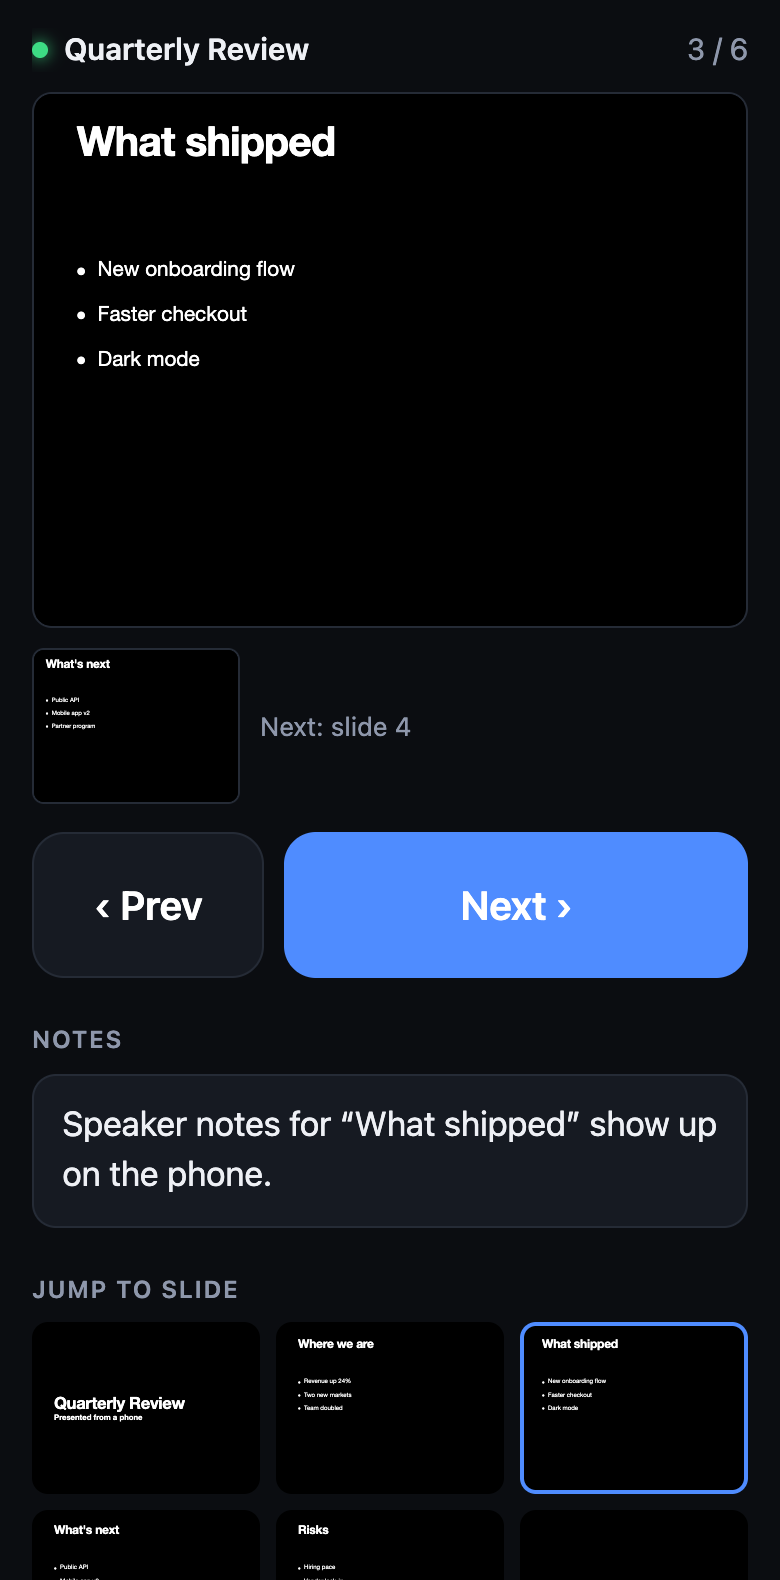
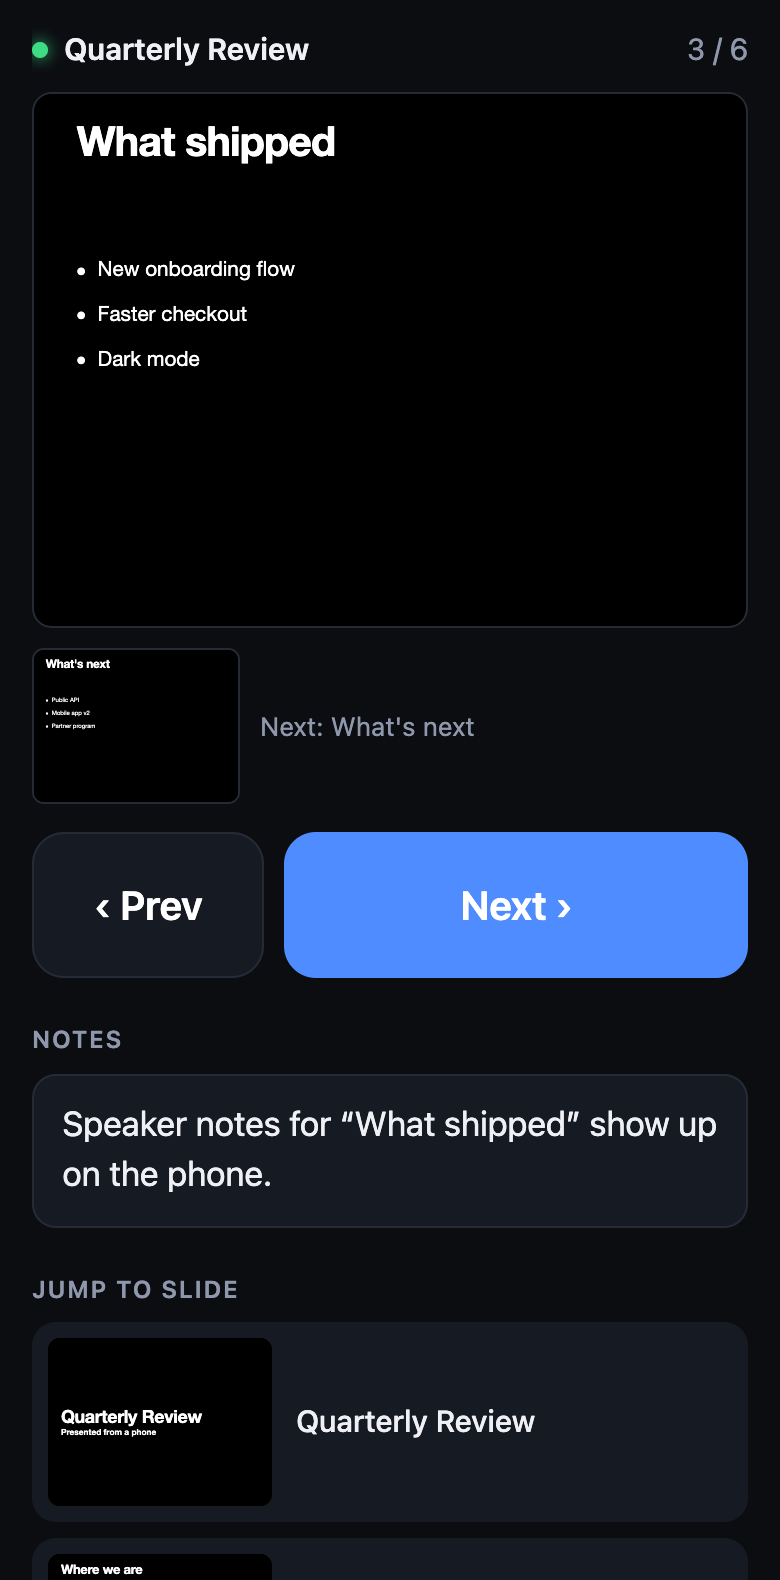
Phone: list slides with their titles; drop the fullscreen slide counter
Titles come from the title placeholder, or the topmost 24pt+ text box
for decks without placeholders. The next-slide label uses the title too.

Claude-Session: https://claude.ai/code/session_018dMkhcnYkUqkn8r54SYi35

Changed region(s): [[0.0308, 0.8373, 0.9846, 1.0], [0.4308, 0.4342, 0.6154, 0.4652]]

diff --git a/docs/js/deck.js b/docs/js/deck.js
@@ -1,5 +1,5 @@
 // Shared by the presenter and the phone remote: parse a .pptx in the browser,
-// render slides into any container, and pull out speaker notes.
+// render slides into any container, and pull out slide titles and speaker notes.
 import { PptxViewer, parseZip, buildPresentation, RECOMMENDED_ZIP_LIMITS } from '../vendor/pptx-renderer.js';
 
 export async function loadDeck(buffer) {
@@ -17,12 +17,13 @@ export async function loadDeck(buffer) {
 
   // Hidden slides are skipped in the show, as in PowerPoint.
   const order = pres.slides.map((s, i) => (s.hidden ? -1 : i)).filter((i) => i >= 0);
-  const notes = await readNotes(buffer, order.map((i) => pres.slides[i]));
+  const { titles, notes } = await readText(buffer, order.map((i) => pres.slides[i]));
 
   return {
     count: order.length,
     width: viewer.slideWidth,
     height: viewer.slideHeight,
+    titles,
     notes,
     // Render visible slide `n` into `el`, scaled to fit `boxW`×`boxH` (or by width only).
     render(n, el, boxW, boxH) {
@@ -46,28 +47,50 @@ export async function loadDeck(buffer) {
   };
 }
 
-async function readNotes(buffer, slides) {
+async function readText(buffer, slides) {
   try {
     const zip = await window.JSZip.loadAsync(buffer);
     const xml = (t) => new DOMParser().parseFromString(t, 'application/xml');
     const byName = (doc, name) => [...doc.getElementsByTagName('*')].filter((e) => e.localName === name);
-    return await Promise.all(slides.map(async (s) => {
+    const text = (el, sep) => byName(el, 'p').map((p) => byName(p, 't').map((t) => t.textContent).join('')).filter(Boolean).join(sep).trim();
+    const read = (path) => zip.file(path)?.async('text');
+
+    const results = await Promise.all(slides.map(async (s, n) => {
       const path = s.slidePath || '';
-      const relsPath = path.replace(/([^/]+)$/, '_rels/$1.rels');
-      const rels = await zip.file(relsPath)?.async('text');
-      if (!rels) return '';
-      const rel = byName(xml(rels), 'Relationship').find((r) => /notesSlide$/.test(r.getAttribute('Type')));
-      if (!rel) return '';
-      const target = new URL(rel.getAttribute('Target'), 'http://x/' + path).pathname.slice(1);
-      const notesXml = await zip.file(target)?.async('text');
-      if (!notesXml) return '';
-      // Only the body placeholder holds the notes text; skip slide image and slide number.
-      const body = byName(xml(notesXml), 'sp').find((sp) => byName(sp, 'ph').some((ph) => (ph.getAttribute('type') || 'body') === 'body' && ph.getAttribute('type') !== 'sldNum'));
-      if (!body) return '';
-      return byName(body, 'p').map((p) => byName(p, 't').map((t) => t.textContent).join('')).join('\n').trim();
+      const slideXml = await read(path);
+      const title = (slideXml && findTitle(xml(slideXml), byName, text)) || `Slide ${n + 1}`;
+
+      const rels = await read(path.replace(/([^/]+)$/, '_rels/$1.rels'));
+      const rel = rels && byName(xml(rels), 'Relationship').find((r) => /notesSlide$/.test(r.getAttribute('Type')));
+      if (!rel) return { title, notes: '' };
+      const notesXml = await read(new URL(rel.getAttribute('Target'), 'http://x/' + path).pathname.slice(1));
+      if (!notesXml) return { title, notes: '' };
+      // Only the body placeholder holds the notes text; skip the slide image and slide number.
+      const body = byName(xml(notesXml), 'sp').find((sp) => byName(sp, 'ph').some((ph) => (ph.getAttribute('type') || 'body') === 'body'));
+      return { title, notes: body ? text(body, '\n') : '' };
     }));
+    return { titles: results.map((r) => r.title), notes: results.map((r) => r.notes) };
   } catch (e) {
-    console.warn('notes', e);
-    return slides.map(() => '');
+    console.warn('slide text', e);
+    return { titles: slides.map((_, n) => `Slide ${n + 1}`), notes: slides.map(() => '') };
   }
+}
+
+// A title placeholder if there is one; otherwise the topmost text box set at 24pt or larger,
+// which skips small eyebrow labels and big stats placed lower on the slide.
+function findTitle(doc, byName, text) {
+  const shapes = byName(doc, 'sp');
+  const ph = shapes.find((sp) => byName(sp, 'ph').some((p) => /^(title|ctrTitle)$/.test(p.getAttribute('type'))));
+  if (ph && text(ph, ' ')) return text(ph, ' ');
+  let best = null;
+  for (const sp of shapes) {
+    const t = text(sp, ' ');
+    if (!t) continue;
+    const maxSz = Math.max(0, ...byName(sp, 'rPr').concat(byName(sp, 'defRPr')).map((r) => Number(r.getAttribute('sz')) || 0));
+    if (maxSz < 2400) continue;
+    const off = byName(sp, 'off')[0];
+    const y = off ? Number(off.getAttribute('y')) || 0 : 0;
+    if (!best || y < best.y) best = { y, t };
+  }
+  return best ? best.t : text(shapes.find((sp) => text(sp, ' ')) || doc, ' ').slice(0, 80);
 }

diff --git a/docs/remote.html b/docs/remote.html
@@ -26,6 +26,7 @@
   .slide { background:#000; border-radius:10px; overflow:hidden; display:flex; align-items:center; justify-content:center; border:1px solid var(--line); }
   #current { width:100%; }
   #nextWrap { display:flex; gap:10px; align-items:center; margin-top:10px; color:var(--muted); font-size:13px; }
+  #nextLabel { min-width:0; display:-webkit-box; -webkit-line-clamp:2; -webkit-box-orient:vertical; overflow:hidden; }
   #next { width:104px; flex:none; border-radius:6px; }
   .ctrls { display:grid; grid-template-columns:1fr 2fr; gap:10px; margin:14px 0; }
   .ctrls button { border-radius:16px; font-size:20px; font-weight:600; padding:24px 0; color:#fff; background:var(--panel); border:1px solid var(--line); font-family:inherit; touch-action:manipulation; }
@@ -35,9 +36,11 @@
   h2 { font-size:12px; text-transform:uppercase; letter-spacing:.07em; color:var(--muted); margin:22px 0 8px; font-weight:600; }
   #notes { background:var(--panel); border:1px solid var(--line); border-radius:12px; padding:12px 14px; white-space:pre-wrap; font-size:17px; line-height:1.5; }
   #notes:empty::before { content:'No speaker notes on this slide'; color:var(--muted); font-size:15px; }
-  #grid { display:grid; grid-template-columns:repeat(3, 1fr); gap:8px; }
-  #grid .t { position:relative; padding:0; border:2px solid transparent; border-radius:8px; background:#000; overflow:hidden; display:flex; align-items:center; justify-content:center; touch-action:manipulation; }
-  #grid .t.cur { border-color:var(--accent); }
+  #grid { display:flex; flex-direction:column; gap:8px; }
+  #grid .t { display:flex; align-items:center; gap:12px; padding:6px; border:2px solid transparent; border-radius:12px; background:var(--panel); cursor:pointer; touch-action:manipulation; }
+  #grid .t.cur { border-color:var(--accent); background:#4f8cff1f; }
+  #grid .th { width:112px; flex:none; background:#000; border-radius:6px; overflow:hidden; display:flex; align-items:center; justify-content:center; }
+  #grid .tt { min-width:0; font-size:15px; font-weight:500; line-height:1.3; display:-webkit-box; -webkit-line-clamp:2; -webkit-box-orient:vertical; overflow:hidden; overflow-wrap:anywhere; }
   .center { text-align:center; padding:72px 12px; color:var(--muted); }
   .center strong { display:block; color:var(--text); font-size:19px; margin-bottom:6px; }
   .bar { height:6px; background:var(--panel); border-radius:3px; overflow:hidden; margin:18px auto 0; max-width:260px; }
@@ -177,17 +180,22 @@ function buildGrid() {
     for (const en of entries) {
       if (!en.isIntersecting || en.target.dataset.done) continue;
       en.target.dataset.done = '1';
-      deck.render(Number(en.target.dataset.i), en.target.querySelector('div'), en.target.clientWidth - 4, en.target.clientHeight - 4);
+      deck.render(Number(en.target.dataset.i), en.target.firstElementChild, en.target.clientWidth, en.target.clientHeight);
     }
   }, { rootMargin: '300px' });
   $('grid').replaceChildren(...Array.from({ length: deck.count }, (_, i) => {
     const b = document.createElement('div');
     b.setAttribute('role', 'button'); b.tabIndex = 0;
-    b.className = 't'; b.dataset.i = i;
-    b.style.aspectRatio = `${deck.width} / ${deck.height}`;
-    b.innerHTML = `<div></div>`;
+    b.className = 't';
+    const th = document.createElement('div');
+    th.className = 'th'; th.dataset.i = i;
+    th.style.aspectRatio = `${deck.width} / ${deck.height}`;
+    th.appendChild(document.createElement('div'));
+    const tt = document.createElement('div');
+    tt.className = 'tt'; tt.textContent = deck.titles[i];
+    b.append(th, tt);
     b.onclick = () => { buzz(); send({ t: 'go', i }); };
-    gridObserver.observe(b);
+    gridObserver.observe(th);
     return b;
   }));
 }
@@ -206,7 +214,7 @@ function show() {
   const nx = $('next');
   nx.style.aspectRatio = ratio;
   if (hasNext && rendered.next !== index + 1) { deck.render(index + 1, nx, 102, 102 * deck.height / deck.width); rendered.next = index + 1; }
-  $('nextLabel').textContent = hasNext ? `Next: slide ${index + 2}` : '';
+  $('nextLabel').textContent = hasNext ? `Next: ${deck.titles[index + 1]}` : '';
   $('notes').textContent = deck.notes[index] || '';
   $('prev').disabled = index === 0;
   $('nextBtn').disabled = index === deck.count - 1;

diff --git a/docs/index.html b/docs/index.html
@@ -122,8 +122,6 @@
   @keyframes spin { to { transform:rotate(360deg); } }
 
   #stage { position:fixed; inset:0; z-index:100; background:#000; display:flex; align-items:center; justify-content:center; cursor:none; }
-  #stage .count { position:absolute; right:16px; bottom:12px; color:#fff8; font-size:13px; opacity:0; transition:.3s; }
-  #stage:hover .count { opacity:1; }
 
   @media (max-width: 900px) {
     .grid3 { grid-template-columns:1fr; }
@@ -235,7 +233,7 @@
 
 <footer><div class="wrap"><span>PPTX Remote · free and open source</span><span>MIT License · <a href="https://github.com/AidenJeong8/pptx-remote">github.com/AidenJeong8/pptx-remote</a></span></div></footer>
 
-<div id="stage" hidden><div id="stageSlide"></div><div class="count" id="stageCount"></div></div>
+<div id="stage" hidden><div id="stageSlide"></div></div>
 
 <script type="module">
 import { loadDeck } from './js/deck.js';
@@ -325,7 +323,6 @@ function go(i) {
 
 function renderStage() {
   deck.render(index, $('stageSlide'), window.innerWidth, window.innerHeight);
-  $('stageCount').textContent = `${index + 1} / ${deck.count}`;
 }
 
 $('present').onclick = async () => {
